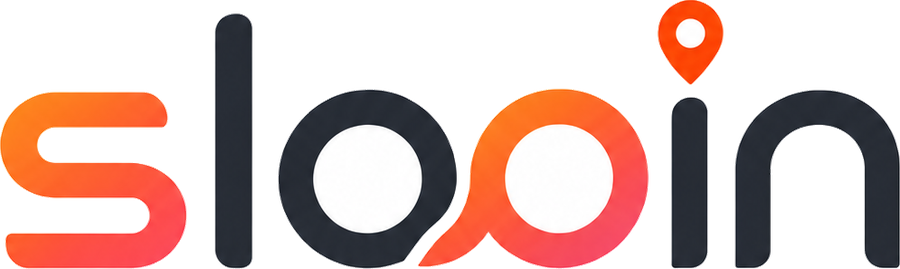
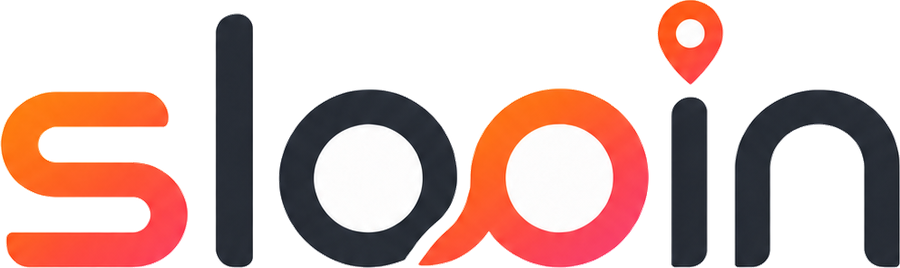
chore(marka): kelime markasi kullanicinin son surumuyle degistirildi
Kullanicinin istegi: "bunu kullan biraz önce attığımla değiştir".
Kaynak dosya tasarim/slooin-kelime-markasi-kaynak.png guncellendi ve
marka-yazisi.png yeniden uretildi.

Olculen degerler (tahmin degil, piksel sayimi):
  gradyan  #FE6B1A -> #F14361
  harfler  #282D36
  oran     900x268 (3.4)

MarkaYazisi bilesenindeki sabit en/boy orani da guncellendi - o oran
koda gomulu oldugu icin gorsel degisince birlikte degismesi gerekiyor,
yoksa yazi ezilir.

Zemin seffaflastirma yine kenardan flood fill ile: harflerin ICI de
beyaz oldugu icin duz renk esigi "o" halkalarini da silerdi.

Claude-Session: https://claude.ai/code/session_01LEuPYUXasxU7Pi42c4v5qi

diff --git a/mobil/src/tasarim/MarkaYazisi.tsx b/mobil/src/tasarim/MarkaYazisi.tsx
@@ -23,8 +23,8 @@ export function MarkaYazisi({
   genislik?: number
   style?: StyleProp<ImageStyle>
 }) {
-  // Oran sabit: kaynak gorselden olculdu (900x269).
-  const yukseklik = Math.round((genislik * 269) / 900)
+  // Oran sabit: kaynak gorselden olculdu (900x268).
+  const yukseklik = Math.round((genislik * 268) / 900)
   return (
     <Image
       source={require('../../assets/images/marka-yazisi.png')}
